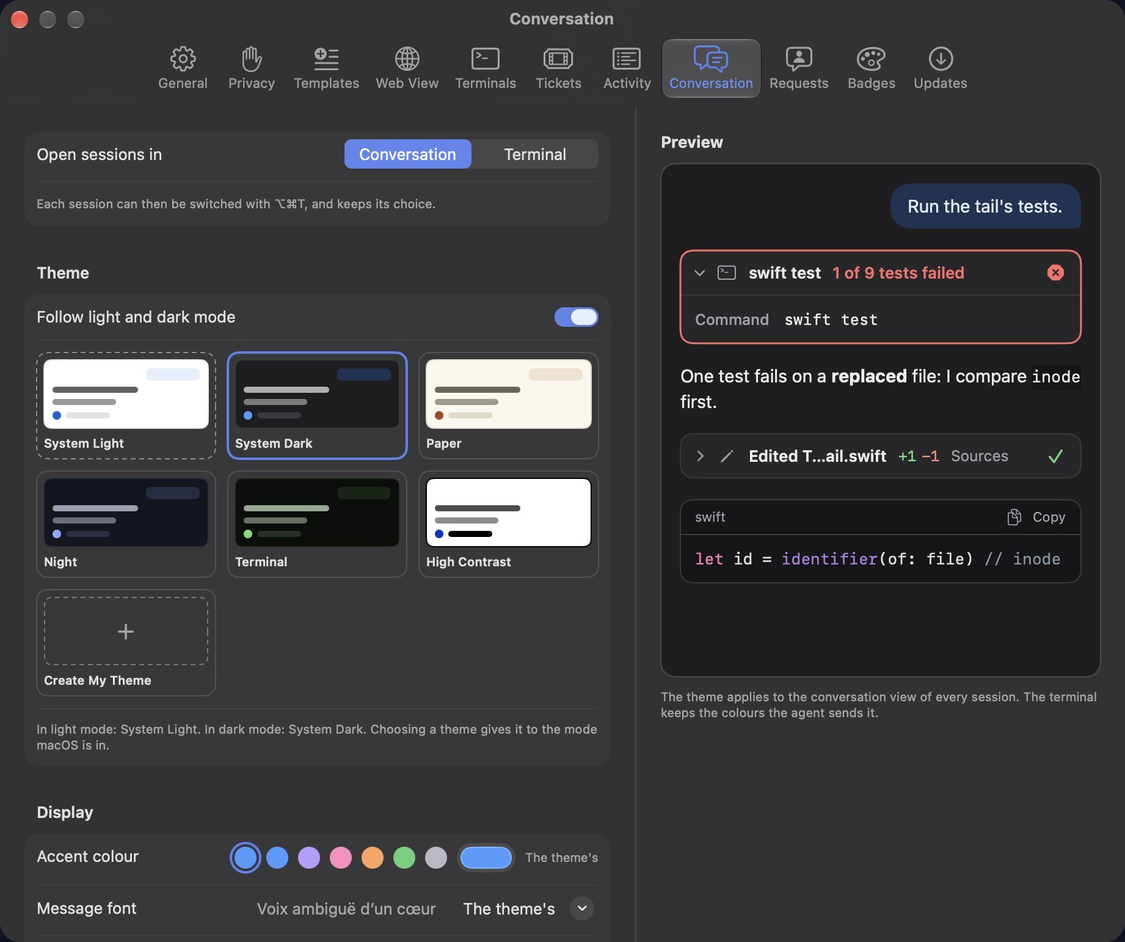
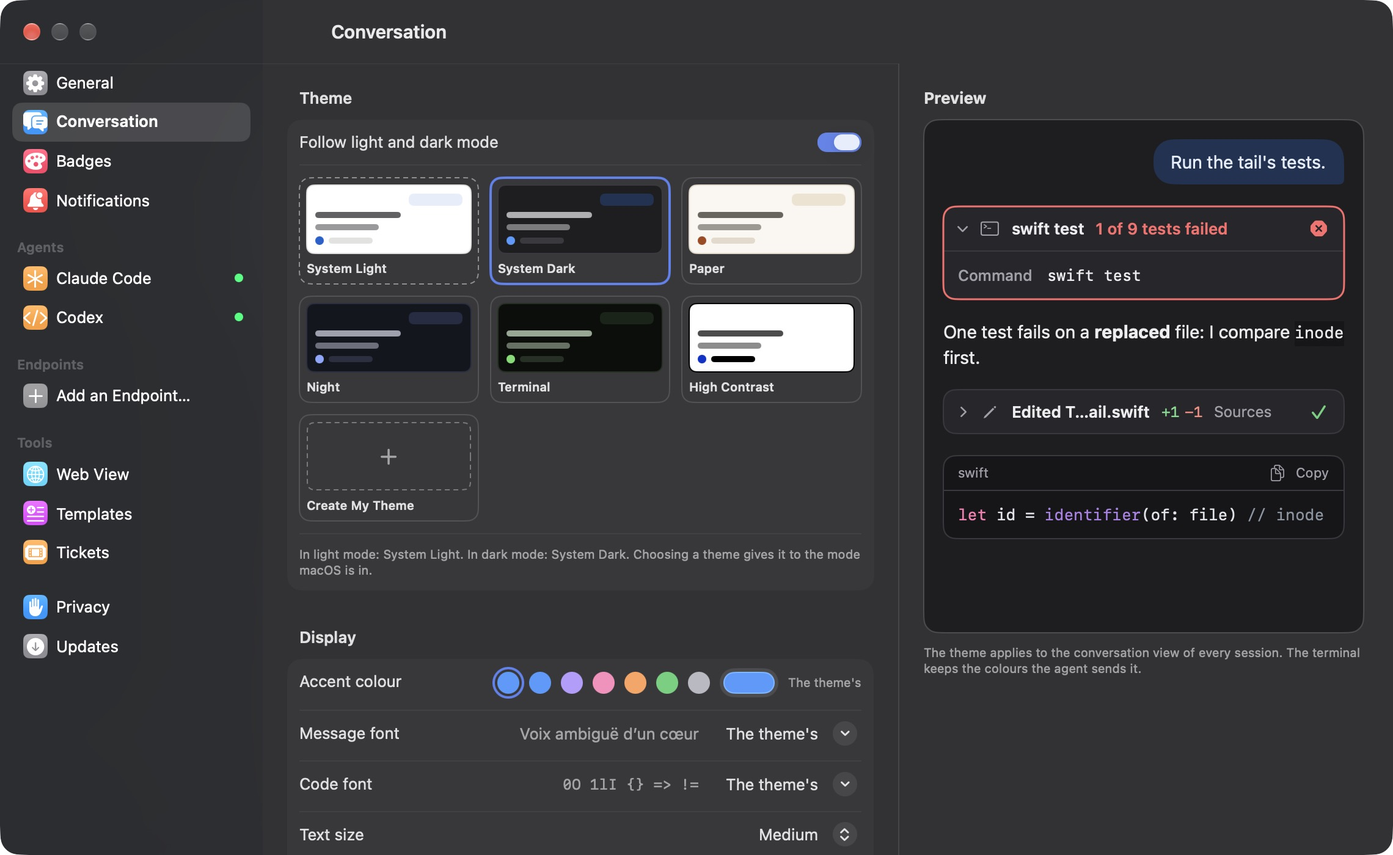
docs: la page Réglages et ses captures suivent la barre latérale (#313)
La page Réglages décrit les pages de la barre latérale : Général reçoit
« Ouvrir les sessions en », le résumé et les terminaux annexes ; les
agents et les endpoints ont leur section ; l'utilisation et les
diagnostics passent dans Confidentialité. Les anciennes ancres
(#activity, #terminals, #requests) restent valides. Les liens des autres
pages nomment les nouveaux chemins, et les captures Général, Conversation
et Gabarits sont refaites en français et en anglais, clair et sombre.

Claude-Session: https://claude.ai/code/session_01X3GXS6zyUqCDhVZZ7BZvH7

diff --git a/site/docs/fr/settings.html b/site/docs/fr/settings.html
@@ -1,78 +1,86 @@
 <h1>Réglages</h1>
-<p class="lede">Chaque onglet de <strong>Vibe Manager › Réglages…</strong> (<kbd>⌘,</kbd>), et le rôle de chaque réglage.</p>
+<p class="lede">Chaque page de <strong>Vibe Manager › Réglages…</strong> (<kbd>⌘,</kbd>), et le rôle de chaque réglage. La barre latérale les regroupe comme Réglages Système ; la fenêtre s’élargit d’elle-même pour les pages qui demandent de la place, comme les gabarits.</p>
 
-<vm-shot name="settings-general" alt="Réglages, onglet Général : les sessions, la fermeture de l’app avec des agents en cours, l’éditeur des fichiers modifiés, l’activité des agents, l’utilisation et les diagnostics.">L’onglet Général.</vm-shot>
+<vm-shot name="settings-general" alt="Réglages, page Général : la barre latérale des pages, à côté les sessions, le résumé, les terminaux annexes et l’éditeur des fichiers modifiés.">La page Général, et la barre latérale de toutes les pages.</vm-shot>
 
 <h2 id="general">Général</h2>
 <dl>
+  <dt>Ouvrir les sessions en</dt>
+  <dd><strong>Conversation</strong> ou <strong>Terminal</strong>, pour les sessions dont vous n’avez pas changé la vue vous-même (<kbd>⌥⌘T</kbd>).</dd>
   <dt>Demander avant de fermer ou d’archiver une session où un travail est en cours</dt>
   <dd>Activé par défaut. Désactivé, fermer et archiver ne demandent jamais confirmation.</dd>
   <dt>En quittant avec des agents en cours d’exécution</dt>
-  <dd><strong>Demander</strong>, <strong>Les laisser tourner</strong> ou <strong>Les arrêter</strong> : voir <a href="agents.html#quit">Quitter sans arrêter les agents</a>.</dd>
+  <dd><strong>Demander</strong>, <strong>Les laisser tourner</strong> ou <strong>Les arrêter</strong> : voir <a href="agents.html#quit">Quitter sans arrêter les agents</a>.</dd>
+  <dt id="activity">Résumer automatiquement les sessions</dt>
+  <dd>Après chaque tour, l’agent écrit un court résumé de la session avec son modèle le plus léger, au plus une fois toutes les cinq minutes ; il s’affiche dans l’<a href="inspector.html#activity">inspecteur</a> et Ouvrir rapidement y cherche. Il utilise le compte de votre agent.</dd>
+  <dt id="terminals">Conserver l’historique des terminaux annexes</dt>
+  <dd>Ce qu’affichait chaque terminal annexe est écrit sur le disque pour revenir après une relance. Le désactiver efface les historiques enregistrés.</dd>
   <dt>Ouvrir les fichiers modifiés avec</dt>
-  <dd>Ce que font <kbd>Return</kbd> ou un double-clic sur un fichier de l’inspecteur : <strong>Finder (afficher seulement)</strong>, <strong>Application par défaut</strong>, l’un des éditeurs trouvés sur ce Mac, ou <strong>Autre…</strong>.</dd>
-  <dt>Activité des agents › Suivre l’activité de …</dt>
-  <dd>Un interrupteur par agent. Activé, les hooks de l’agent signalent quand il travaille, demande ou termine, ce dont la barre latérale et les demandes ont besoin. La première fois, une feuille montre les commandes qu’exécutent les hooks, et vous les approuvez une fois pour toutes.</dd>
-  <dt>Utilisation › Suivre l’utilisation des agents</dt>
-  <dd>Enregistre le temps d’exécution et lit les compteurs de jetons pour la <a href="inspector.html#usage-window">fenêtre Utilisation</a>. <strong>Effacer les données d’utilisation…</strong> efface ce qui a été enregistré, pas les transcripts des agents.</dd>
-  <dt>Diagnostics</dt>
-  <dd><strong>Exporter les diagnostics…</strong> : voir <a href="troubleshooting.html#diagnostics">Dépannage</a>.</dd>
+  <dd>Ce que font <kbd>Return</kbd> ou un double-clic sur un fichier de l’inspecteur : <strong>Finder (afficher seulement)</strong>, <strong>Application par défaut</strong>, l’un des éditeurs trouvés sur ce Mac, ou <strong>Autre…</strong>.</dd>
 </dl>
 
-<h2 id="privacy">Confidentialité</h2>
-<p>Indique si Vibe Manager dispose de l’<strong>Accès complet au disque</strong> — Accordé, Non accordé, ou Accordé, pas encore effectif —, avec <strong>Ouvrir Réglages Système</strong>. Les agents héritent de l’accès du processus qui les fait tourner, lequel a pu démarrer avant que vous l’accordiez : <strong>Redémarrer à la fin des agents</strong> le laisse partir une fois son dernier agent terminé, <strong>Redémarrer maintenant…</strong> arrête les agents qu’il cite et les reprend. La section <strong>Processus par processus</strong> apparaît quand ils ne sont pas d’accord.</p>
+<h2 id="conversation">Conversation</h2>
+<dl>
+  <dt>Thème</dt><dd>Voir <a href="personalize.html#themes">Thèmes et avatars</a>.</dd>
+  <dt>Affichage</dt><dd>Couleur d’accent, police des messages, police du code, taille du texte (de Petit à Très grand), densité (Compacte ou Confortable), vos messages en Bulles ou en Lignes.</dd>
+  <dt>Détails techniques</dt><dd>Regrouper les appels consécutifs de même nature ; déplier un appel en échec ; déplier les modifications de fichiers ; afficher les rangées de raisonnement ; retour à la ligne dans les blocs de code ; numéros de ligne dans les diffs.</dd>
+</dl>
 
-<h2 id="templates">Gabarits</h2>
-<p>L’éditeur de gabarits de session : voir <a href="templates.html">Gabarits de session</a>.</p>
+<h2 id="badges">Badges</h2>
+<p>Les symboles et les couleurs proposés pour les badges des sessions : voir <a href="personalize.html#badges">Badges</a>.</p>
+
+<h2 id="requests">Notifications</h2>
+<dl>
+  <dt>Panneau flottant</dt>
+  <dd><strong>Afficher les demandes au-dessus des autres applications</strong> active le <a href="requests.html#background">panneau flottant</a>. Choisissez son avatar, s’il masque ou garde l’avatar à l’écran <strong>Sans demande en attente</strong>, et <strong>Remettre à sa place</strong> s’il s’est perdu. Son raccourci est <kbd>⌃⌥⌘P</kbd>.</dd>
+  <dt>Notifications</dt>
+  <dd><strong>Me notifier des demandes</strong>, en montrant <strong>Le type de demande</strong> ou <strong>La commande ou la question</strong>. Indisponible tant que le panneau flottant est actif, puisqu’il les signale déjà.</dd>
+  <dt>Palette</dt>
+  <dd>Afficher le nombre de demandes sur l’icône du Dock ; déplier la palette à l’arrivée d’une demande.</dd>
+  <dt>Gérer les avatars…</dt>
+  <dd>Ouvre la page <strong>Avatars</strong>, votre bibliothèque d’avatars : voir <a href="personalize.html#avatars">Avatars</a>. Le bouton ‹ ramène aux notifications.</dd>
+</dl>
+
+<h2 id="agents">Agents</h2>
+<p>Une page par agent : Claude Code, Codex. Le point de la barre latérale dit s’il est prêt (vert), utilisable avec quelque chose à régler, trop ancien ou pas connecté (orange), ou introuvable (rouge). La page montre où son outil en ligne de commande a été trouvé et sa version ; <strong>Relancer la détection</strong> le cherche à nouveau, après une installation ou une mise à jour.</p>
+<dl>
+  <dt>Suivre l’activité de …</dt>
+  <dd>Pour un agent qui fait approuver ses hooks, comme Codex. Activé, les hooks signalent quand il travaille, demande ou termine, ce dont la barre latérale et les demandes ont besoin. La première fois, une feuille montre les commandes qu’exécutent les hooks, et vous les approuvez une fois pour toutes. Claude Code n’a pas ce réglage : ses hooks n’ont pas à être approuvés.</dd>
+</dl>
+
+<h2 id="endpoints">Endpoints</h2>
+<p>Chaque serveur de modèles déclaré a sa page, et le point de la barre latérale dit le résultat de son dernier test. <strong>Ajouter un endpoint…</strong> part d’Ollama, de LM Studio, d’OpenRouter ou d’un <strong>Autre serveur</strong> : un serveur connu remplit l’adresse, la clé attendue et le protocole ; seul un autre serveur demande son protocole. Voir <a href="https://github.com/hadrienl/vibe-manager/blob/main/docs/endpoints.md">docs/endpoints.md</a>.</p>
 
 <h2 id="web-view">Vue web</h2>
 <dl>
   <dt>Donner la vue web aux agents</dt><dd>Lance chaque agent avec le serveur d’outils <code>vibe-browser</code>. Prend effet au prochain démarrage de chaque agent.</dd>
   <dt>Afficher la vue web quand un agent ouvre une page</dt><dd>Fait passer la vue web au premier plan quand l’agent ouvre un onglet.</dd>
-  <dt>Ouvrir les liens</dt><dd><strong>Dans la vue web</strong> ou <strong>Dans le navigateur par défaut</strong>, pour les liens cliqués avec <kbd>⌘</kbd> dans un terminal ; <kbd>⌥</kbd> fait l’inverse.</dd>
-  <dt>Sites toujours autorisés</dt><dd>Les sites pour lesquels vous avez choisi <strong>Toujours autoriser</strong> ; <strong>Retirer</strong> revient sur ce choix.</dd>
+  <dt>Ouvrir les liens</dt><dd><strong>Dans la vue web</strong> ou <strong>Dans le navigateur par défaut</strong>, pour les liens cliqués avec <kbd>⌘</kbd> dans un terminal ; <kbd>⌥</kbd> fait l’inverse.</dd>
+  <dt>Sites toujours autorisés</dt><dd>Les sites pour lesquels vous avez choisi <strong>Toujours autoriser</strong> ; <strong>Retirer</strong> revient sur ce choix.</dd>
   <dt>Données de navigation › Effacer…</dt><dd>Efface les cookies et les données de la vue web, ce qui vous déconnecte de tous les sites dans toutes les sessions.</dd>
 </dl>
 
-<h2 id="terminals">Terminaux</h2>
-<p><strong>Conserver l’historique des terminaux annexes</strong> : ce qu’affichait chaque terminal annexe est écrit sur le disque pour revenir après une relance. Le désactiver efface les historiques enregistrés.</p>
+<h2 id="templates">Gabarits</h2>
+<p>L’éditeur de gabarits de session : voir <a href="templates.html">Gabarits de session</a>.</p>
 
 <h2 id="tickets">Tickets</h2>
 <p>Quand une nouvelle session désigne un ticket — dans son champ Ticket, son nom ou son prompt —, sa page s’ouvre dans la vue web et, avec <strong>Insérer le titre des tickets dans les notes</strong>, son titre est ajouté en haut des notes, dans le <strong>Format de la ligne</strong> de votre choix (<code>{title}</code>, <code>{id}</code>, <code>{url}</code>).</p>
-<p>Un <strong>résolveur</strong> indique quelles adresses sont des tickets : GitHub, GitLab, les merge requests GitLab, Jira Cloud et Linear sont fournis. Ajoutez les vôtres pour un GitLab auto-hébergé, un Jira Server ou un Redmine : un nom, un <strong>motif d’adresse</strong> avec une capture nommée comme <code>(?&lt;number&gt;[0-9]+)</code>, un <strong>identifiant</strong> comme <code>#{number}</code>, et des motifs de <strong>nettoyage du titre</strong>. <strong>Tester avec une adresse</strong> le vérifie. Les résolveurs peuvent être importés et exportés ; voir <a href="https://github.com/hadrienl/vibe-manager/blob/main/docs/ticket-resolvers.md">docs/ticket-resolvers.md</a>.</p>
+<p>La ligne <strong>Résolveurs</strong> ouvre leur page. Un résolveur indique quelles adresses sont des tickets : GitHub, GitLab, les merge requests GitLab, Jira Cloud et Linear sont fournis. Ajoutez les vôtres pour un GitLab auto-hébergé, un Jira Server ou un Redmine : un nom, un <strong>motif d’adresse</strong> avec une capture nommée comme <code>(?&lt;number&gt;[0-9]+)</code>, un <strong>identifiant</strong> comme <code>#{number}</code>, et des motifs de <strong>nettoyage du titre</strong>. <strong>Tester avec une adresse</strong> le vérifie. Les résolveurs peuvent être importés et exportés ; voir <a href="https://github.com/hadrienl/vibe-manager/blob/main/docs/ticket-resolvers.md">docs/ticket-resolvers.md</a>.</p>
 
-<h2 id="activity">Activité</h2>
-<p><strong>Résumer automatiquement les sessions</strong> : après chaque tour, l’agent écrit un court résumé de la session avec son modèle le plus léger, au plus une fois toutes les cinq minutes ; il s’affiche dans l’<a href="inspector.html#activity">inspecteur</a> et Ouvrir rapidement y cherche. Il utilise le compte de votre agent.</p>
-
-<h2 id="conversation">Conversation</h2>
+<h2 id="privacy">Confidentialité</h2>
+<p>Indique si Vibe Manager dispose de l’<strong>Accès complet au disque</strong> — Accordé, Non accordé, ou Accordé, pas encore effectif —, avec <strong>Ouvrir Réglages Système</strong>. Les agents héritent de l’accès du processus qui les fait tourner, lequel a pu démarrer avant que vous l’accordiez : <strong>Redémarrer à la fin des agents</strong> le laisse partir une fois son dernier agent terminé, <strong>Redémarrer maintenant…</strong> arrête les agents qu’il cite et les reprend. La section <strong>Processus par processus</strong> apparaît quand ils ne sont pas d’accord.</p>
 <dl>
-  <dt>Ouvrir les sessions en</dt><dd><strong>Conversation</strong> ou <strong>Terminal</strong>, pour les sessions dont vous n’avez pas changé la vue vous-même.</dd>
-  <dt>Thème</dt><dd>Voir <a href="personalize.html#themes">Thèmes et avatars</a>.</dd>
-  <dt>Affichage</dt><dd>Couleur d’accent, police des messages, police du code, taille du texte (de Petit à Très grand), densité (Compacte ou Confortable), vos messages en Bulles ou en Lignes.</dd>
-  <dt>Détails techniques</dt><dd>Regrouper les appels consécutifs de même nature ; déplier un appel en échec ; déplier les modifications de fichiers ; afficher les rangées de raisonnement ; retour à la ligne dans les blocs de code ; numéros de ligne dans les diffs.</dd>
+  <dt id="usage">Données de ce Mac › Suivre l’utilisation des agents</dt>
+  <dd>Enregistre le temps d’exécution et lit les compteurs de jetons pour la <a href="inspector.html#usage-window">fenêtre Utilisation</a>. <strong>Effacer les données d’utilisation…</strong> efface ce qui a été enregistré, pas les transcripts des agents.</dd>
+  <dt>Données de ce Mac › Diagnostics</dt>
+  <dd><strong>Exporter les diagnostics…</strong> : voir <a href="troubleshooting.html#diagnostics">Dépannage</a>.</dd>
 </dl>
-
-<h2 id="requests">Demandes</h2>
-<p>Deux pages, <strong>Signalement</strong> et <strong>Avatars</strong>.</p>
-<dl>
-  <dt>Panneau flottant</dt>
-  <dd><strong>Afficher les demandes au-dessus des autres applications</strong> active le <a href="requests.html#background">panneau flottant</a>. Choisissez son avatar (<strong>Gérer les avatars…</strong>), s’il masque ou garde l’avatar à l’écran <strong>Sans demande en attente</strong>, et <strong>Remettre à sa place</strong> s’il s’est perdu. Son raccourci est <kbd>⌃⌥⌘P</kbd>.</dd>
-  <dt>Notifications</dt>
-  <dd><strong>Me notifier des demandes</strong>, en montrant <strong>Le type de demande</strong> ou <strong>La commande ou la question</strong>. Indisponible tant que le panneau flottant est actif, puisqu’il les signale déjà.</dd>
-  <dt>Palette</dt>
-  <dd>Afficher le nombre de demandes sur l’icône du Dock ; déplier la palette à l’arrivée d’une demande.</dd>
-  <dt>Avatars</dt>
-  <dd>Votre bibliothèque d’avatars : voir <a href="personalize.html#avatars">Avatars</a>.</dd>
-</dl>
-
-<h2 id="badges">Badges</h2>
-<p>Les symboles et les couleurs proposés pour les badges des sessions : voir <a href="personalize.html#badges">Badges</a>.</p>
 
 <h2 id="updates">Mises à jour</h2>
 <dl>
   <dt>Rechercher automatiquement les mises à jour</dt><dd>Chaque jour, chaque semaine ou chaque mois.</dd>
-  <dt>Télécharger et installer automatiquement les mises à jour</dt><dd>Installe en arrière-plan ; sinon, la question vous est posée.</dd>
+  <dt>Télécharger et installer automatiquement les mises à jour</dt><dd>Installe en arrière-plan ; sinon, la question vous est posée.</dd>
   <dt>Canal</dt><dd><strong>Stable</strong>, ou <strong>Instable</strong> pour recevoir aussi les versions candidates.</dd>
   <dt>Rechercher maintenant</dt><dd>Aussi dans <strong>Vibe Manager › Rechercher les mises à jour…</strong>.</dd>
 </dl>
-<p>Les mises à jour sont signées deux fois — avec le Developer ID de l’app et avec une clé EdDSA — et vérifiées avant d’être installées. Quand des agents tournent, la mise à jour pose la même question qu’en quittant : installer en les laissant tourner, ou tout arrêter.</p>
+<p>Les mises à jour sont signées deux fois — avec le Developer ID de l’app et avec une clé EdDSA — et vérifiées avant d’être installées. Quand des agents tournent, la mise à jour pose la même question qu’en quittant : installer en les laissant tourner, ou tout arrêter.</p>

diff --git a/site/docs/en/settings.html b/site/docs/en/settings.html
@@ -1,29 +1,55 @@
 <h1>Settings</h1>
-<p class="lede">Every tab of <strong>Vibe Manager › Settings…</strong> (<kbd>⌘,</kbd>), and what each setting does.</p>
+<p class="lede">Every page of <strong>Vibe Manager › Settings…</strong> (<kbd>⌘,</kbd>), and what each setting does. The sidebar groups them as System Settings does; the window widens by itself for the pages that need the room, such as the templates.</p>
 
-<vm-shot name="settings-general" alt="Settings, General tab: sessions, quitting with agents running, the editor for changed files, agent activity, usage and diagnostics.">The General tab.</vm-shot>
+<vm-shot name="settings-general" alt="Settings, General page: the sidebar of the pages, and beside it the sessions, the summary, the side terminals and the editor for changed files.">The General page, and the sidebar of every page.</vm-shot>
 
 <h2 id="general">General</h2>
 <dl>
+  <dt>Open sessions in</dt>
+  <dd><strong>Conversation</strong> or <strong>Terminal</strong>, for sessions you have not switched yourself (<kbd>⌥⌘T</kbd>).</dd>
   <dt>Ask before closing or archiving a session where work is running</dt>
   <dd>On by default. Off, closing and archiving never ask.</dd>
   <dt>When quitting with agents running</dt>
   <dd><strong>Ask</strong>, <strong>Keep them running</strong> or <strong>Stop them</strong>: see <a href="agents.html#quit">Quit without stopping the agents</a>.</dd>
+  <dt id="activity">Summarize sessions automatically</dt>
+  <dd>After each turn, the agent writes a short summary of the session with its lightest model, at most once every five minutes, shown in the <a href="inspector.html#activity">inspector</a> and searched by Open Quickly. It uses your agent's account.</dd>
+  <dt id="terminals">Keep the history of side terminals</dt>
+  <dd>What each side terminal showed is written to disk so it comes back after a relaunch. Turning it off erases the saved histories.</dd>
   <dt>Open changed files with</dt>
   <dd>What <kbd>Return</kbd> or a double-click does on a file of the inspector: <strong>Finder (reveal only)</strong>, <strong>Default Application</strong>, one of the editors found on this Mac, or <strong>Other…</strong>.</dd>
-  <dt>Agent Activity › Track … activity</dt>
-  <dd>One switch per agent. On, the agent's hooks report when it works, asks or finishes, which the sidebar and the requests need. The first time, a sheet shows the commands the hooks run, and you approve them once.</dd>
-  <dt>Usage › Track agent usage</dt>
-  <dd>Records running time and reads token counters for the <a href="inspector.html#usage-window">Usage window</a>. <strong>Clear Usage Data…</strong> erases what was recorded, not the agents' transcripts.</dd>
-  <dt>Diagnostics</dt>
-  <dd><strong>Export Diagnostics…</strong>: see <a href="troubleshooting.html#diagnostics">Troubleshooting</a>.</dd>
 </dl>
 
-<h2 id="privacy">Privacy</h2>
-<p>Whether Vibe Manager has <strong>Full Disk Access</strong> — Granted, Not granted, or Granted, not yet in effect — with <strong>Open System Settings</strong>. Agents inherit the access of the process that runs them, which may have started before you granted it: <strong>Restart When Idle</strong> lets it go once its last agent ends, <strong>Restart Now…</strong> stops the agents it names and resumes them. The <strong>Process by Process</strong> section appears when they disagree.</p>
+<h2 id="conversation">Conversation</h2>
+<dl>
+  <dt>Theme</dt><dd>See <a href="personalize.html#themes">Themes and avatars</a>.</dd>
+  <dt>Display</dt><dd>Accent colour, message font, code font, text size (Small to Extra Large), density (Compact or Comfortable), your messages as Bubbles or Lines.</dd>
+  <dt>Technical details</dt><dd>Group consecutive calls of the same kind; unfold a failed call; unfold file edits; show reasoning rows; wrap lines in code blocks; line numbers in diffs.</dd>
+</dl>
 
-<h2 id="templates">Templates</h2>
-<p>The prompt template editor: see <a href="templates.html">Prompt templates</a>.</p>
+<h2 id="badges">Badges</h2>
+<p>The symbols and colours offered for sessions' badges: see <a href="personalize.html#badges">Badges</a>.</p>
+
+<h2 id="requests">Notifications</h2>
+<dl>
+  <dt>Floating Panel</dt>
+  <dd><strong>Show requests above other applications</strong> turns on the <a href="requests.html#background">floating panel</a>. Choose its avatar, whether it hides or keeps the avatar on screen <strong>With no pending request</strong>, and <strong>Put Back in Place</strong> if it got lost. Its shortcut is <kbd>⌃⌥⌘P</kbd>.</dd>
+  <dt>Notifications</dt>
+  <dd><strong>Notify me of requests</strong>, showing <strong>The kind of request</strong> or <strong>The command or the question</strong>. Unavailable while the floating panel is on, which already signals them.</dd>
+  <dt>Palette</dt>
+  <dd>Show the number of requests on the Dock icon; unfold the palette when a request arrives.</dd>
+  <dt>Manage Avatars…</dt>
+  <dd>Opens the <strong>Avatars</strong> page, your avatar library: see <a href="personalize.html#avatars">Avatars</a>. The ‹ button goes back to the notifications.</dd>
+</dl>
+
+<h2 id="agents">Agents</h2>
+<p>One page per agent: Claude Code, Codex. The dot in the sidebar says whether it is ready (green), usable with something to fix, too old or not signed in (orange), or not found (red). The page shows where its command-line tool was found and its version; <strong>Detect Again</strong> looks for it again, after an installation or an update.</p>
+<dl>
+  <dt>Track … activity</dt>
+  <dd>For an agent that has its hooks approved, such as Codex. On, the hooks report when it works, asks or finishes, which the sidebar and the requests need. The first time, a sheet shows the commands the hooks run, and you approve them once. Claude Code has no such setting: its hooks need no approval.</dd>
+</dl>
+
+<h2 id="endpoints">Endpoints</h2>
+<p>Each model server you declared has its page, and the dot in the sidebar gives the result of its last test. <strong>Add an Endpoint…</strong> starts from Ollama, LM Studio, OpenRouter or an <strong>Other Server</strong>: a known server fills in the address, the key it expects and the protocol; only another server asks for its protocol. See <a href="https://github.com/hadrienl/vibe-manager/blob/main/docs/endpoints.md">docs/endpoints.md</a>.</p>
 
 <h2 id="web-view">Web View</h2>
 <dl>
@@ -34,39 +60,21 @@
   <dt>Browsing data › Clear…</dt><dd>Erases the cookies and data of the web view, which signs you out of every site in every session.</dd>
 </dl>
 
-<h2 id="terminals">Terminals</h2>
-<p><strong>Keep the history of side terminals</strong>: what each side terminal showed is written to disk so it comes back after a relaunch. Turning it off erases the saved histories.</p>
+<h2 id="templates">Templates</h2>
+<p>The prompt template editor: see <a href="templates.html">Prompt templates</a>.</p>
 
 <h2 id="tickets">Tickets</h2>
 <p>When a new session names a ticket — in its Ticket field, its name or its prompt — its page is opened in the web view, and with <strong>Insert ticket titles in the notes</strong> its title is added at the top of the notes, in the <strong>Line format</strong> you choose (<code>{title}</code>, <code>{id}</code>, <code>{url}</code>).</p>
-<p>A <strong>resolver</strong> says which addresses are tickets: GitHub, GitLab, GitLab merge requests, Jira Cloud and Linear are shipped. Add your own for a self-hosted GitLab, a Jira Server or a Redmine: a name, an <strong>address pattern</strong> with a named capture such as <code>(?&lt;number&gt;[0-9]+)</code>, an <strong>identifier</strong> such as <code>#{number}</code>, and <strong>title cleanup</strong> patterns. <strong>Test with an address</strong> checks it. Resolvers can be imported and exported; see <a href="https://github.com/hadrienl/vibe-manager/blob/main/docs/ticket-resolvers.md">docs/ticket-resolvers.md</a>.</p>
+<p>The <strong>Resolvers</strong> line opens their page. A resolver says which addresses are tickets: GitHub, GitLab, GitLab merge requests, Jira Cloud and Linear are shipped. Add your own for a self-hosted GitLab, a Jira Server or a Redmine: a name, an <strong>address pattern</strong> with a named capture such as <code>(?&lt;number&gt;[0-9]+)</code>, an <strong>identifier</strong> such as <code>#{number}</code>, and <strong>title cleanup</strong> patterns. <strong>Test with an address</strong> checks it. Resolvers can be imported and exported; see <a href="https://github.com/hadrienl/vibe-manager/blob/main/docs/ticket-resolvers.md">docs/ticket-resolvers.md</a>.</p>
 
-<h2 id="activity">Activity</h2>
-<p><strong>Summarize sessions automatically</strong>: after each turn, the agent writes a short summary of the session with its lightest model, at most once every five minutes, shown in the <a href="inspector.html#activity">inspector</a> and searched by Open Quickly. It uses your agent's account.</p>
-
-<h2 id="conversation">Conversation</h2>
+<h2 id="privacy">Privacy</h2>
+<p>Whether Vibe Manager has <strong>Full Disk Access</strong> — Granted, Not granted, or Granted, not yet in effect — with <strong>Open System Settings</strong>. Agents inherit the access of the process that runs them, which may have started before you granted it: <strong>Restart When Idle</strong> lets it go once its last agent ends, <strong>Restart Now…</strong> stops the agents it names and resumes them. The <strong>Process by Process</strong> section appears when they disagree.</p>
 <dl>
-  <dt>Open sessions in</dt><dd><strong>Conversation</strong> or <strong>Terminal</strong>, for sessions you have not switched yourself.</dd>
-  <dt>Theme</dt><dd>See <a href="personalize.html#themes">Themes and avatars</a>.</dd>
-  <dt>Display</dt><dd>Accent colour, message font, code font, text size (Small to Extra Large), density (Compact or Comfortable), your messages as Bubbles or Lines.</dd>
-  <dt>Technical details</dt><dd>Group consecutive calls of the same kind; unfold a failed call; unfold file edits; show reasoning rows; wrap lines in code blocks; line numbers in diffs.</dd>
+  <dt id="usage">Data on This Mac › Track agent usage</dt>
+  <dd>Records running time and reads token counters for the <a href="inspector.html#usage-window">Usage window</a>. <strong>Clear Usage Data…</strong> erases what was recorded, not the agents' transcripts.</dd>
+  <dt>Data on This Mac › Diagnostics</dt>
+  <dd><strong>Export Diagnostics…</strong>: see <a href="troubleshooting.html#diagnostics">Troubleshooting</a>.</dd>
 </dl>
-
-<h2 id="requests">Requests</h2>
-<p>Two pages, <strong>Alerts</strong> and <strong>Avatars</strong>.</p>
-<dl>
-  <dt>Floating Panel</dt>
-  <dd><strong>Show requests above other applications</strong> turns on the <a href="requests.html#background">floating panel</a>. Choose its avatar (<strong>Manage Avatars…</strong>), whether it hides or keeps the avatar on screen <strong>With no pending request</strong>, and <strong>Put Back in Place</strong> if it got lost. Its shortcut is <kbd>⌃⌥⌘P</kbd>.</dd>
-  <dt>Notifications</dt>
-  <dd><strong>Notify me of requests</strong>, showing <strong>The kind of request</strong> or <strong>The command or the question</strong>. Unavailable while the floating panel is on, which already signals them.</dd>
-  <dt>Palette</dt>
-  <dd>Show the number of requests on the Dock icon; unfold the palette when a request arrives.</dd>
-  <dt>Avatars</dt>
-  <dd>Your avatar library: see <a href="personalize.html#avatars">Avatars</a>.</dd>
-</dl>
-
-<h2 id="badges">Badges</h2>
-<p>The symbols and colours offered for sessions' badges: see <a href="personalize.html#badges">Badges</a>.</p>
 
 <h2 id="updates">Updates</h2>
 <dl>

diff --git a/site/docs/fr/personalize.html b/site/docs/fr/personalize.html
@@ -5,8 +5,8 @@
 
 <h2 id="themes">Thèmes de conversation</h2>
 <p>Dans <strong>Réglages › Conversation</strong>, choisissez un thème pour la vue conversation : <strong>Système clair</strong>, <strong>Système sombre</strong>, <strong>Papier</strong>, <strong>Nuit</strong>, <strong>Terminal</strong>, <strong>Contraste élevé</strong>, ou l’un des vôtres. Avec <strong>Suivre le mode clair ou sombre</strong>, vous choisissez un thème pour chaque mode, et la conversation suit macOS. Tous les thèmes intégrés respectent les rapports de contraste WCAG.</p>
-<vm-shot name="settings-conversation" alt="Réglages, onglet Conversation : la grille des thèmes, les options d’affichage et un aperçu en direct.">Thèmes, affichage et détails techniques, avec un aperçu en direct.</vm-shot>
-<p>Le même onglet règle la <strong>couleur d’accent</strong>, les <strong>polices</strong> des messages et du code, la <strong>taille du texte</strong>, la <strong>densité</strong>, l’affichage de vos messages en <strong>bulles</strong> ou en <strong>lignes</strong>, et la part des détails techniques qui est dépliée. <strong>Rétablir les réglages par défaut</strong> remet tout en place.</p>
+<vm-shot name="settings-conversation" alt="Réglages, page Conversation : la grille des thèmes, les options d’affichage et un aperçu en direct.">Thèmes, affichage et détails techniques, avec un aperçu en direct.</vm-shot>
+<p>La même page règle la <strong>couleur d’accent</strong>, les <strong>polices</strong> des messages et du code, la <strong>taille du texte</strong>, la <strong>densité</strong>, l’affichage de vos messages en <strong>bulles</strong> ou en <strong>lignes</strong>, et la part des détails techniques qui est dépliée. <strong>Rétablir les réglages par défaut</strong> remet tout en place.</p>
 
 <h3 id="my-theme">Créer votre propre thème</h3>
 <ol>
@@ -19,7 +19,7 @@
 <div class="callout"><p>La génération s’exécute une fois avec le compte de votre agent, hors de toute session, depuis un dossier temporaire vide, sans outils, sans serveurs MCP et sans accès au web. Seule votre description est envoyée ; la réponse est vérifiée et utilisée comme couleurs, rien d’autre.</p></div>
 
 <h2 id="avatars">Avatars</h2>
-<p>Le <a href="requests.html#background">panneau flottant</a> présente les demandes avec un avatar animé. <strong>Réglages › Demandes › Avatars</strong> contient votre bibliothèque d’avatars :</p>
+<p>Le <a href="requests.html#background">panneau flottant</a> présente les demandes avec un avatar animé. <strong>Réglages › Notifications › Gérer les avatars…</strong> contient votre bibliothèque d’avatars :</p>
 <ul>
   <li><strong>Créer un nouvel avatar</strong> : décrivez-le, et Codex dessine ses dix expressions — neutre, parle, cligne des yeux, content, surpris, pensif, inquiet… — sur une seule planche, en une minute et demie environ. On peut redessiner une seule expression, ou toutes.</li>
   <li><strong>Importer une archive…</strong> : un <code>.zip</code> exporté depuis Vibe Manager, ou dix images nommées d’après les expressions, dessinées à la main.</li>

diff --git a/site/docs/en/personalize.html b/site/docs/en/personalize.html
@@ -5,8 +5,8 @@
 
 <h2 id="themes">Conversation themes</h2>
 <p>In <strong>Settings › Conversation</strong>, choose a theme for the conversation view: <strong>System Light</strong>, <strong>System Dark</strong>, <strong>Paper</strong>, <strong>Night</strong>, <strong>Terminal</strong>, <strong>High Contrast</strong>, or one of your own. With <strong>Follow light and dark mode</strong>, you pick one theme for each mode, and the conversation follows macOS. Every built-in theme meets the WCAG contrast ratios.</p>
-<vm-shot name="settings-conversation" alt="Settings, Conversation tab: the theme grid, the display options and a live preview.">Themes, display and technical details, with a live preview.</vm-shot>
-<p>The same tab sets the <strong>accent colour</strong>, the <strong>fonts</strong> of messages and code, the <strong>text size</strong>, the <strong>density</strong>, whether your messages are <strong>bubbles</strong> or <strong>lines</strong>, and how much of the technical details is unfolded. <strong>Restore Defaults</strong> puts it all back.</p>
+<vm-shot name="settings-conversation" alt="Settings, Conversation page: the theme grid, the display options and a live preview.">Themes, display and technical details, with a live preview.</vm-shot>
+<p>The same page sets the <strong>accent colour</strong>, the <strong>fonts</strong> of messages and code, the <strong>text size</strong>, the <strong>density</strong>, whether your messages are <strong>bubbles</strong> or <strong>lines</strong>, and how much of the technical details is unfolded. <strong>Restore Defaults</strong> puts it all back.</p>
 
 <h3 id="my-theme">Create your own theme</h3>
 <ol>
@@ -19,7 +19,7 @@
 <div class="callout"><p>Generation runs once with your agent's own account, outside any session, from an empty temporary folder, without tools, MCP servers or web access. Only your description is sent; the answer is checked and used as colours, nothing else.</p></div>
 
 <h2 id="avatars">Avatars</h2>
-<p>The <a href="requests.html#background">floating panel</a> presents requests with an animated avatar. <strong>Settings › Requests › Avatars</strong> holds your library of avatars:</p>
+<p>The <a href="requests.html#background">floating panel</a> presents requests with an animated avatar. <strong>Settings › Notifications › Manage Avatars…</strong> holds your library of avatars:</p>
 <ul>
   <li><strong>Create a New Avatar</strong>: describe it, and Codex draws its ten expressions — neutral, speaking, blinking, pleased, surprised, thinking, worried… — on one sheet, in about a minute and a half. A single expression can be drawn again, or all of them.</li>
   <li><strong>Import an Archive…</strong>: a <code>.zip</code> exported from Vibe Manager, or ten images named after the expressions, drawn by hand.</li>

diff --git a/site/docs/fr/inspector.html b/site/docs/fr/inspector.html
@@ -8,7 +8,7 @@
 <h2 id="activity">Activité</h2>
 <dl>
   <dt>Résumé</dt>
-  <dd>Quelques lignes sur l’état d’avancement de la session, écrites par l’agent lui-même après ses tours, avec son modèle le plus léger, au plus une fois toutes les cinq minutes. Il s’active ou se désactive dans <a href="settings.html#activity">Réglages › Activité</a>.</dd>
+  <dd>Quelques lignes sur l’état d’avancement de la session, écrites par l’agent lui-même après ses tours, avec son modèle le plus léger, au plus une fois toutes les cinq minutes. Il s’active ou se désactive dans <a href="settings.html#activity">Réglages › Général</a>.</dd>
   <dt>Ressources</dt>
   <dd>Les tickets, pull requests et merge requests, branches et worktrees que la session a touchés, repérés dans son transcript. Un clic droit sur l’un d’eux copie son adresse, sa référence ou son chemin, ou affiche son dépôt.</dd>
 </dl>
@@ -40,4 +40,4 @@
 <h2 id="usage-window">La fenêtre Utilisation</h2>
 <p><strong>Fenêtre › Utilisation</strong> (<kbd>⌥⌘U</kbd>) fait le total sur une période — aujourd’hui, 7 ou 30 jours, ce mois-ci, le mois précédent, ou depuis toujours —, regroupé par session, agent ou modèle, en jetons ou en temps d’exécution.</p>
 <vm-shot name="usage" alt="La fenêtre Utilisation : un graphique des jetons par jour, et un tableau des sessions avec leur temps d’exécution et leurs jetons.">Ce que les agents ont consommé, par session, agent ou modèle.</vm-shot>
-<p>Le temps d’exécution est mesuré par l’app, hors veille. Les jetons sont lus dans les compteurs des transcripts qu’écrivent Claude Code et Codex, et marqués <code>≈</code>. Aucun coût n’est affiché : aucune des deux CLI n’en indique un qui tienne la route. Le suivi de l’utilisation peut être désactivé ou effacé dans <a href="settings.html#general">Réglages › Général</a>.</p>
+<p>Le temps d’exécution est mesuré par l’app, hors veille. Les jetons sont lus dans les compteurs des transcripts qu’écrivent Claude Code et Codex, et marqués <code>≈</code>. Aucun coût n’est affiché : aucune des deux CLI n’en indique un qui tienne la route. Le suivi de l’utilisation peut être désactivé ou effacé dans <a href="settings.html#usage">Réglages › Confidentialité</a>.</p>

diff --git a/site/docs/en/inspector.html b/site/docs/en/inspector.html
@@ -8,7 +8,7 @@
 <h2 id="activity">Activity</h2>
 <dl>
   <dt>Summary</dt>
-  <dd>A few lines on where the session stands, written by the agent itself after its turns, with its lightest model, at most once every five minutes. It is turned on or off in <a href="settings.html#activity">Settings › Activity</a>.</dd>
+  <dd>A few lines on where the session stands, written by the agent itself after its turns, with its lightest model, at most once every five minutes. It is turned on or off in <a href="settings.html#activity">Settings › General</a>.</dd>
   <dt>Resources</dt>
   <dd>The tickets, pull and merge requests, branches and worktrees the session touched, found in its transcript. Right-click one to copy its address, reference or path, or reveal its repository.</dd>
 </dl>
@@ -40,4 +40,4 @@
 <h2 id="usage-window">The Usage window</h2>
 <p><strong>Window › Usage</strong> (<kbd>⌥⌘U</kbd>) adds it all up over a period — today, 7 or 30 days, this month, the previous one, or all time — grouped by session, agent or model, as tokens or as running time.</p>
 <vm-shot name="usage" alt="The Usage window: a chart of tokens per day, and a table of sessions with their running time and tokens.">What the agents used, by session, agent or model.</vm-shot>
-<p>Running time is measured by the app, sleep excluded. Tokens are read from the counters in the transcripts Claude Code and Codex write, and marked <code>≈</code>. No cost is shown: neither CLI reports one that holds together. Usage tracking can be turned off or cleared in <a href="settings.html#general">Settings › General</a>.</p>
+<p>Running time is measured by the app, sleep excluded. Tokens are read from the counters in the transcripts Claude Code and Codex write, and marked <code>≈</code>. No cost is shown: neither CLI reports one that holds together. Usage tracking can be turned off or cleared in <a href="settings.html#usage">Settings › Privacy</a>.</p>

diff --git a/site/docs/fr/conversation.html b/site/docs/fr/conversation.html
@@ -2,7 +2,7 @@
 <p class="lede">Chaque session fait tourner son agent dans un vrai terminal. La vue conversation lit ce qu’écrit l’agent et l’affiche comme un chat : les messages en entier, le reste replié sous un titre qui résume ce qu’il a fait.</p>
 
 <h2 id="two-views">Deux vues d’une même session</h2>
-<p>Le sélecteur <strong>Conversation | Terminal</strong> de la barre d’outils, ou <strong>Présentation › Afficher le terminal</strong> (<kbd>⌥⌘T</kbd>), passe de l’une à l’autre. Les deux restent actives : le passage est instantané et chacune garde sa position. Chaque session retient la vue dans laquelle vous l’avez laissée ; les nouvelles sessions s’ouvrent dans celle choisie dans <a href="settings.html#conversation">Réglages › Conversation</a>.</p>
+<p>Le sélecteur <strong>Conversation | Terminal</strong> de la barre d’outils, ou <strong>Présentation › Afficher le terminal</strong> (<kbd>⌥⌘T</kbd>), passe de l’une à l’autre. Les deux restent actives : le passage est instantané et chacune garde sa position. Chaque session retient la vue dans laquelle vous l’avez laissée ; les nouvelles sessions s’ouvrent dans celle choisie dans <a href="settings.html#general">Réglages › Général</a>.</p>
 <vm-shot name="terminal" alt="La même session en vue Terminal : l’interface de Claude Code, sur toute la largeur, avec la barre d’état en dessous.">Le terminal fait toujours foi : la conversation est lue à partir de ce qu’écrit l’agent.</vm-shot>
 <p>Le terminal est l’interface de l’agent lui-même, intacte : tout ce que vous pouvez faire dans <code>claude</code> ou <code>codex</code> dans un terminal, vous pouvez le faire ici. La barre d’état en dessous indique si le processus tourne, avec <strong>Arrêter</strong> ou <strong>Relancer</strong>, et le bouton des <a href="terminals.html">terminaux annexes</a>.</p>
 

diff --git a/site/docs/fr/agents.html b/site/docs/fr/agents.html
@@ -3,7 +3,7 @@
 
 <h2 id="supported">Agents pris en charge</h2>
 <p>Vibe Manager fait tourner <strong>Claude Code</strong> et <strong>Codex CLI</strong>, chacun dans sa propre interface de terminal, avec votre compte et votre configuration. Il ne passe aucune option qui réduise les permissions réglées pour votre CLI, n’injecte aucune clé d’API et ne lit aucun identifiant. Ce qu’un agent a le droit de faire dans une session relève de sa propre configuration : Vibe Manager ne l’élargit ni ne la restreint.</p>
-<p>Deux ajouts sont faits au lancement, pour ce lancement seulement : les <strong>hooks</strong> de l’agent signalent son activité — il travaille, attend, a terminé — une fois que vous les avez approuvés (<a href="settings.html#general">Réglages › Général › Activité des agents</a>), et son <strong>serveur d’outils</strong> <code>vibe-browser</code> lui donne la <a href="terminals.html#agent-browser">vue web</a>.</p>
+<p>Deux ajouts sont faits au lancement, pour ce lancement seulement : les <strong>hooks</strong> de l’agent signalent son activité — il travaille, attend, a terminé — une fois que vous les avez approuvés (<a href="settings.html#agents">Réglages › Agents</a>), et son <strong>serveur d’outils</strong> <code>vibe-browser</code> lui donne la <a href="terminals.html#agent-browser">vue web</a>.</p>
 
 <h2 id="switch">Changer d’agent ou de modèle</h2>
 <p><strong>Session › Changer d’agent…</strong> (<kbd>⌃⌘M</kbd>), ou <strong>Changer…</strong> dans la section Agent de l’inspecteur, change l’agent ou le modèle d’une session.</p>

diff --git a/site/docs/en/conversation.html b/site/docs/en/conversation.html
@@ -2,7 +2,7 @@
 <p class="lede">Every session runs its agent in a real terminal. The conversation view reads what the agent writes and shows it like a chat: messages in full, the rest folded under a title that says what it did.</p>
 
 <h2 id="two-views">Two views of the same session</h2>
-<p>The <strong>Conversation | Terminal</strong> switch in the toolbar, or <strong>View › Show Terminal</strong> (<kbd>⌥⌘T</kbd>), flips between them. Both stay live, so switching is instant and each keeps its place. Each session remembers the view you left it in; new sessions open in the one chosen in <a href="settings.html#conversation">Settings › Conversation</a>.</p>
+<p>The <strong>Conversation | Terminal</strong> switch in the toolbar, or <strong>View › Show Terminal</strong> (<kbd>⌥⌘T</kbd>), flips between them. Both stay live, so switching is instant and each keeps its place. Each session remembers the view you left it in; new sessions open in the one chosen in <a href="settings.html#general">Settings › General</a>.</p>
 <vm-shot name="terminal" alt="The same session in Terminal view: the Claude Code interface, full width, with the status bar below.">The terminal is always the truth: the conversation is read from what the agent writes.</vm-shot>
 <p>The terminal is the agent's own interface, untouched: everything you can do in <code>claude</code> or <code>codex</code> in a terminal, you can do here. The status bar below it shows whether the process runs, with <strong>Stop</strong> or <strong>Restart</strong>, and the button of the <a href="terminals.html">side terminals</a>.</p>
 

diff --git a/site/docs/en/agents.html b/site/docs/en/agents.html
@@ -3,7 +3,7 @@
 
 <h2 id="supported">Supported agents</h2>
 <p>Vibe Manager runs <strong>Claude Code</strong> and <strong>Codex CLI</strong>, each in its own terminal interface, with your account and your configuration. It passes no flag that lowers the permissions you set for your CLI, injects no API key, and reads no credential. What an agent may do inside a session is its own configuration: Vibe Manager neither widens nor narrows it.</p>
-<p>Two additions are made at launch, for that launch only: the agent's <strong>hooks</strong> report its activity — working, waiting, finished — once you have approved them (<a href="settings.html#general">Settings › General › Agent Activity</a>), and its <strong>tool server</strong> <code>vibe-browser</code> gives it the <a href="terminals.html#agent-browser">web view</a>.</p>
+<p>Two additions are made at launch, for that launch only: the agent's <strong>hooks</strong> report its activity — working, waiting, finished — once you have approved them (<a href="settings.html#agents">Settings › Agents</a>), and its <strong>tool server</strong> <code>vibe-browser</code> gives it the <a href="terminals.html#agent-browser">web view</a>.</p>
 
 <h2 id="switch">Switch agent or model</h2>
 <p><strong>Session › Switch Agent…</strong> (<kbd>⌃⌘M</kbd>), or <strong>Switch…</strong> in the inspector's Agent section, changes the agent or the model of a session.</p>

diff --git a/site/docs/fr/terminals.html b/site/docs/fr/terminals.html
@@ -11,7 +11,7 @@
   <li>Jusqu’à huit terminaux par session.</li>
 </ul>
 <p>Les terminaux annexes appartiennent à leur session : ils s’arrêtent quand elle se ferme, et reviennent quand elle se rouvre ou quand l’app est relancée — mêmes onglets, même ordre, même dossier, ce que chacun affichait — sous forme de nouveaux shells sous une ligne datée. Rien n’est réexécuté. Si vous quittez avec <a href="agents.html#quit">Laisser tourner</a>, ils continuent de tourner avec leur agent.</p>
-<p>Leur historique est la seule sortie de terminal écrite sur le disque ; <a href="settings.html#terminals">Réglages › Terminaux</a> permet de le désactiver et de l’effacer.</p>
+<p>Leur historique est la seule sortie de terminal écrite sur le disque ; <a href="settings.html#terminals">Réglages › Général</a> permet de le désactiver et de l’effacer.</p>
 
 <h2 id="web-view">La vue web</h2>
 <p><strong>Présentation › Afficher la vue web</strong> (<kbd>⌥⌘B</kbd>), ou le globe de la barre d’outils, ouvre un navigateur à côté de la session, avec ses propres onglets. Changer de session change d’onglets ; rien n’est rechargé.</p>

diff --git a/site/docs/fr/organize.html b/site/docs/fr/organize.html
@@ -28,7 +28,7 @@
   </tbody>
 </table>
 <p>Une main sur la ligne signifie que l’agent attend votre autorisation dans la vue web, un globe qu’il a ouvert une page. Les neuf premières sessions de la colonne répondent à <kbd>⌘1</kbd> à <kbd>⌘9</kbd> ; <kbd>⌥⌘↑</kbd> et <kbd>⌥⌘↓</kbd> passent à la session précédente et suivante.</p>
-<p>Les états « en cours », « question » et « terminé » viennent des hooks de l’agent lui-même, que vous approuvez une fois par agent : voir <a href="settings.html#general">Réglages › Général › Activité des agents</a>.</p>
+<p>Les états « en cours », « question » et « terminé » viennent des hooks de l’agent lui-même, que vous approuvez une fois par agent : voir <a href="settings.html#agents">Réglages › Agents</a>.</p>
 
 <h2 id="groups">Grouper par projet</h2>
 <p><strong>Présentation › Grouper les sessions par dossier</strong> (<kbd>⌃⌘G</kbd>), ou le bouton dossier en bas de la barre latérale, donne à chaque dossier de travail une section repliable. Son en-tête indique combien de sessions elle contient et le plus urgent de leurs états.</p>
